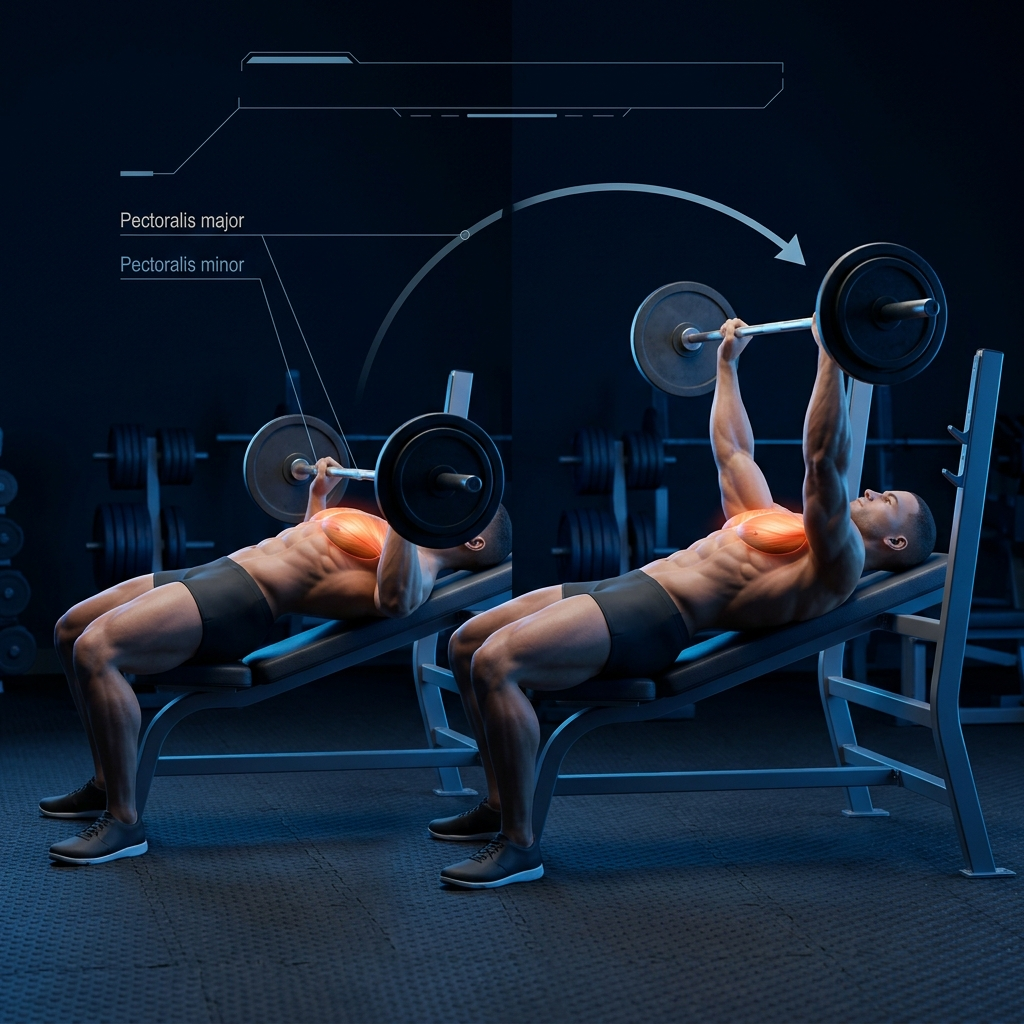
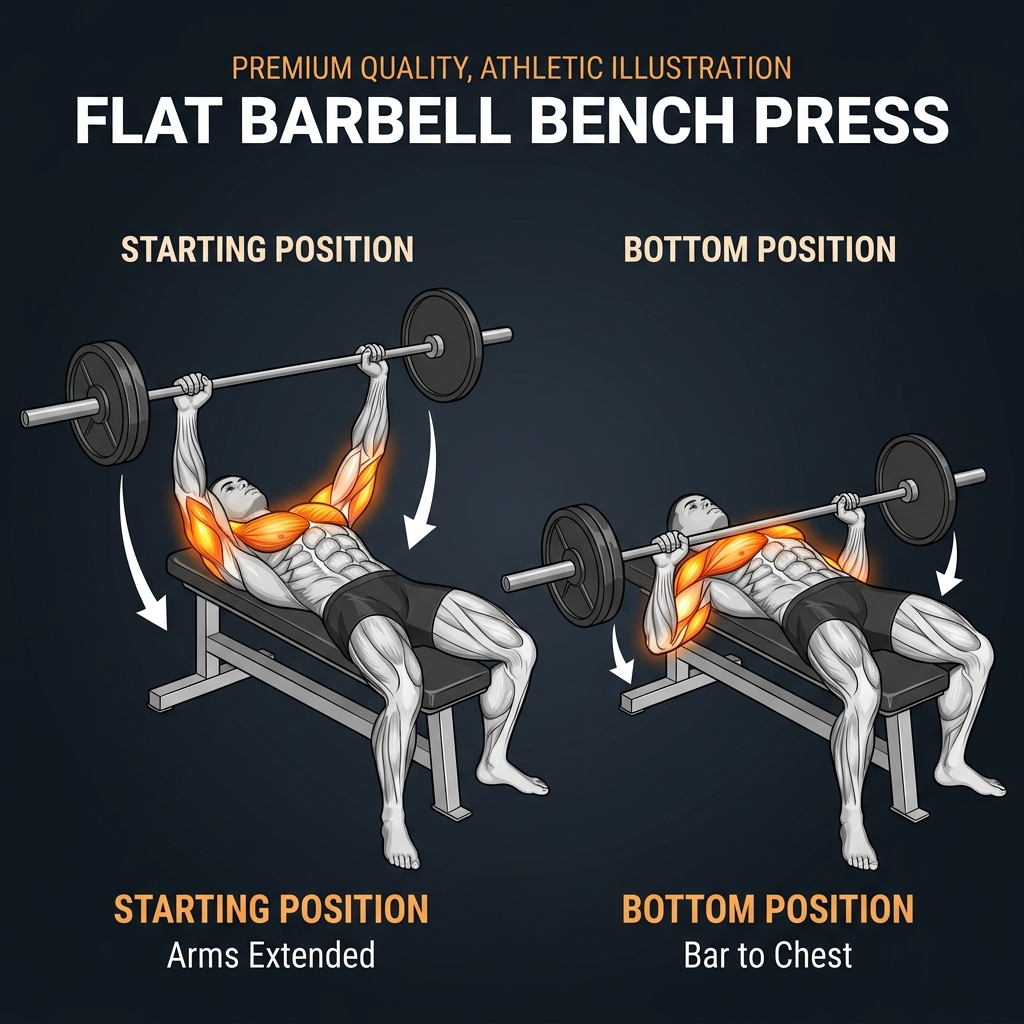
Add files via upload

diff --git a/index.html b/index.html
@@ -221,7 +221,7 @@
           <h3>Chest (Seena) — Pectoralis Major & Minor</h3>
           <div class="exercise-count">5 Exercises</div>
         </div>
-        <img src="images/chest_exercises.png" alt="Chest Exercises Guide" class="muscle-img-banner">
+        <img src="images/chest_exercises_guide.png" alt="Chest Exercises Guide" class="muscle-img-banner">
 
         <div class="exercises-grid">
           <!-- Chest Ex 1 -->
@@ -501,11 +501,10 @@
         <div class="exercises-grid">
           <!-- Bicep Ex 1 -->
           <div class="exercise-card animate-on-scroll">
-            <div class="exercise-card-visual">
-              <div class="visual-emoji">💪</div>
-              <div class="visual-info">
-                <div class="visual-type compound">🎯 Compound</div>
-                <div class="visual-muscles"><strong>Primary:</strong> Biceps (Both Heads)<br><strong>Secondary:</strong> Forearms, Brachialis</div>
+            <div class="exercise-card-image">
+              <img src="images/biceps_exercises.png" alt="Standing Barbell Curl Form Guide" loading="lazy">
+              <div class="exercise-card-image-overlay">
+                <span class="exercise-type-badge">📸 Form Guide</span>
               </div>
             </div>
             <div class="exercise-card-header">
@@ -731,7 +730,7 @@
           <h3>Back (Peeth) — Latissimus Dorsi, Rhomboids, Traps</h3>
           <div class="exercise-count">5 Exercises</div>
         </div>
-        <img src="images/back_exercises.png" alt="Back Exercises Guide" class="muscle-img-banner">
+        <img src="images/back_exercises_guide.png" alt="Back Exercises Guide" class="muscle-img-banner">
 
         <div class="exercises-grid">
           <div class="exercise-card animate-on-scroll">
@@ -819,11 +818,10 @@
           </div>
 
           <div class="exercise-card animate-on-scroll">
-            <div class="exercise-card-visual">
-              <div class="visual-emoji">🚣</div>
-              <div class="visual-info">
-                <div class="visual-type compound">🎯 Compound</div>
-                <div class="visual-muscles"><strong>Primary:</strong> Mid Back (Rhomboids)<br><strong>Secondary:</strong> Lats, Biceps</div>
+            <div class="exercise-card-image">
+              <img src="images/ex_cable_row.png" alt="Seated Cable Row (Close Grip) Form Guide" loading="lazy">
+              <div class="exercise-card-image-overlay">
+                <span class="exercise-type-badge">📸 Form Guide</span>
               </div>
             </div>
             <div class="exercise-card-header">
@@ -961,15 +959,14 @@
           <h3>Triceps (ट्राइसेप्स) — Triceps Brachii (3 Heads)</h3>
           <div class="exercise-count">4 Exercises</div>
         </div>
-        <img src="images/triceps_exercises.png" alt="Triceps Exercises Guide" class="muscle-img-banner">
+        <img src="images/triceps_exercises_guide.png" alt="Triceps Exercises Guide" class="muscle-img-banner">
 
         <div class="exercises-grid">
           <div class="exercise-card animate-on-scroll">
-            <div class="exercise-card-visual">
-              <div class="visual-emoji">⬇</div>
-              <div class="visual-info">
-                <div class="visual-type isolation">🔬 Isolation</div>
-                <div class="visual-muscles"><strong>Primary:</strong> Lateral Head<br><strong>Secondary:</strong> Medial Head</div>
+            <div class="exercise-card-image">
+              <img src="images/ex_rope_pushdown.png" alt="Cable Rope Pushdown Form Guide" loading="lazy">
+              <div class="exercise-card-image-overlay">
+                <span class="exercise-type-badge">📸 Form Guide</span>
               </div>
             </div>
             <div class="exercise-card-header">
@@ -1156,15 +1153,14 @@
           <h3>Shoulders (कंधे) — Deltoids (3 Heads) + Traps</h3>
           <div class="exercise-count">5 Exercises</div>
         </div>
-        <img src="images/shoulder_exercises.png" alt="Shoulder Exercises Guide" class="muscle-img-banner">
+        <img src="images/shoulders_exercises_guide.png" alt="Shoulder Exercises Guide" class="muscle-img-banner">
 
         <div class="exercises-grid">
           <div class="exercise-card animate-on-scroll">
-            <div class="exercise-card-visual">
-              <div class="visual-emoji">🌟</div>
-              <div class="visual-info">
-                <div class="visual-type compound">🎯 Compound</div>
-                <div class="visual-muscles"><strong>Primary:</strong> Front + Side Delts<br><strong>Secondary:</strong> Triceps, Upper Chest</div>
+            <div class="exercise-card-image">
+              <img src="images/ex_shoulder_press.png" alt="Seated Dumbbell Shoulder Press Form Guide" loading="lazy">
+              <div class="exercise-card-image-overlay">
+                <span class="exercise-type-badge">📸 Form Guide</span>
               </div>
             </div>
             <div class="exercise-card-header">
@@ -1204,11 +1200,10 @@
           </div>
 
           <div class="exercise-card animate-on-scroll">
-            <div class="exercise-card-visual">
-              <div class="visual-emoji">🦅</div>
-              <div class="visual-info">
-                <div class="visual-type isolation">🔬 Isolation</div>
-                <div class="visual-muscles"><strong>Primary:</strong> Side Delts (Width)<br><strong>Secondary:</strong> Front Delts</div>
+            <div class="exercise-card-image">
+              <img src="images/ex_lateral_raise.png" alt="Dumbbell Lateral Raises Form Guide" loading="lazy">
+              <div class="exercise-card-image-overlay">
+                <span class="exercise-type-badge">📸 Form Guide</span>
               </div>
             </div>
             <div class="exercise-card-header">
@@ -1387,15 +1382,14 @@
           <h3>Legs (टांगें) — Quads, Hamstrings, Glutes, Calves</h3>
           <div class="exercise-count">6 Exercises</div>
         </div>
-        <img src="images/legs_exercises.png" alt="Leg Exercises Guide" class="muscle-img-banner">
+        <img src="images/legs_exercises_guide.png" alt="Leg Exercises Guide" class="muscle-img-banner">
 
         <div class="exercises-grid">
           <div class="exercise-card animate-on-scroll">
-            <div class="exercise-card-visual">
-              <div class="visual-emoji">👑</div>
-              <div class="visual-info">
-                <div class="visual-type compound">🎯 King of All Exercises</div>
-                <div class="visual-muscles"><strong>Primary:</strong> Quads, Glutes<br><strong>Secondary:</strong> Hamstrings, Core, Lower Back</div>
+            <div class="exercise-card-image">
+              <img src="images/ex_squat.png" alt="Barbell Back Squat Form Guide" loading="lazy">
+              <div class="exercise-card-image-overlay">
+                <span class="exercise-type-badge">📸 Form Guide</span>
               </div>
             </div>
             <div class="exercise-card-header">
@@ -1435,11 +1429,10 @@
           </div>
 
           <div class="exercise-card animate-on-scroll">
-            <div class="exercise-card-visual">
-              <div class="visual-emoji">🦿</div>
-              <div class="visual-info">
-                <div class="visual-type compound">🎯 Compound</div>
-                <div class="visual-muscles"><strong>Primary:</strong> Quads (All 4 Heads)<br><strong>Secondary:</strong> Glutes, Hamstrings</div>
+            <div class="exercise-card-image">
+              <img src="images/ex_leg_press.png" alt="Leg Press Machine Form Guide" loading="lazy">
+              <div class="exercise-card-image-overlay">
+                <span class="exercise-type-badge">📸 Form Guide</span>
               </div>
             </div>
             <div class="exercise-card-header">
@@ -1567,11 +1560,10 @@
           </div>
 
           <div class="exercise-card animate-on-scroll">
-            <div class="exercise-card-visual">
-              <div class="visual-emoji">🏆</div>
-              <div class="visual-info">
-                <div class="visual-type compound">🎯 Compound</div>
-                <div class="visual-muscles"><strong>Primary:</strong> Hamstrings + Glutes<br><strong>Secondary:</strong> Lower Back, Adductors</div>
+            <div class="exercise-card-image">
+              <img src="images/ex_rdl.png" alt="Romanian Deadlift (RDL) Form Guide" loading="lazy">
+              <div class="exercise-card-image-overlay">
+                <span class="exercise-type-badge">📸 Form Guide</span>
               </div>
             </div>
             <div class="exercise-card-header">
@@ -1678,11 +1670,10 @@
 
         <div class="exercises-grid">
           <div class="exercise-card animate-on-scroll">
-            <div class="exercise-card-visual">
-              <div class="visual-emoji">🔩</div>
-              <div class="visual-info">
-                <div class="visual-type compound">🎯 Compound</div>
-                <div class="visual-muscles"><strong>Primary:</strong> Mid Chest (Each Side)<br><strong>Secondary:</strong> Front Delts, Triceps</div>
+            <div class="exercise-card-image">
+              <img src="images/ex_bench_press.png" alt="Dumbbell Bench Press (Flat) Form Guide" loading="lazy">
+              <div class="exercise-card-image-overlay">
+                <span class="exercise-type-badge">📸 Form Guide</span>
               </div>
             </div>
             <div class="exercise-card-header">
@@ -2012,11 +2003,10 @@
 
         <div class="exercises-grid">
           <div class="exercise-card animate-on-scroll">
-            <div class="exercise-card-visual">
-              <div class="visual-emoji">🔽</div>
-              <div class="visual-info">
-                <div class="visual-type compound">🎯 Compound</div>
-                <div class="visual-muscles"><strong>Primary:</strong> Lats (Lower Fibers)<br><strong>Secondary:</strong> Biceps, Teres Major</div>
+            <div class="exercise-card-image">
+              <img src="images/ex_lat_pulldown.png" alt="Close Grip Lat Pulldown Form Guide" loading="lazy">
+              <div class="exercise-card-image-overlay">
+                <span class="exercise-type-badge">📸 Form Guide</span>
               </div>
             </div>
             <div class="exercise-card-header">
@@ -2098,11 +2088,10 @@
           </div>
 
           <div class="exercise-card animate-on-scroll">
-            <div class="exercise-card-visual">
-              <div class="visual-emoji">🚣</div>
-              <div class="visual-info">
-                <div class="visual-type compound">🎯 Compound</div>
-                <div class="visual-muscles"><strong>Primary:</strong> Upper Back (Width)<br><strong>Secondary:</strong> Rear Delts, Biceps</div>
+            <div class="exercise-card-image">
+              <img src="images/ex_cable_row.png" alt="Wide Grip Seated Cable Row Form Guide" loading="lazy">
+              <div class="exercise-card-image-overlay">
+                <span class="exercise-type-badge">📸 Form Guide</span>
               </div>
             </div>
             <div class="exercise-card-header">
@@ -2195,11 +2184,10 @@
 
         <div class="exercises-grid">
           <div class="exercise-card animate-on-scroll">
-            <div class="exercise-card-visual">
-              <div class="visual-emoji">✊</div>
-              <div class="visual-info">
-                <div class="visual-type compound">🎯 Compound</div>
-                <div class="visual-muscles"><strong>Primary:</strong> Triceps (All 3 Heads)<br><strong>Secondary:</strong> Chest, Front Delts</div>
+            <div class="exercise-card-image">
+              <img src="images/ex_bench_press.png" alt="Close Grip Bench Press Form Guide" loading="lazy">
+              <div class="exercise-card-image-overlay">
+                <span class="exercise-type-badge">📸 Form Guide</span>
               </div>
             </div>
             <div class="exercise-card-header">
@@ -2347,11 +2335,10 @@
 
         <div class="exercises-grid">
           <div class="exercise-card animate-on-scroll">
-            <div class="exercise-card-visual">
-              <div class="visual-emoji">💪</div>
-              <div class="visual-info">
-                <div class="visual-type compound">🎯 Compound</div>
-                <div class="visual-muscles"><strong>Primary:</strong> All 3 Delt Heads<br><strong>Secondary:</strong> Triceps</div>
+            <div class="exercise-card-image">
+              <img src="images/ex_shoulder_press.png" alt="Arnold Press Form Guide" loading="lazy">
+              <div class="exercise-card-image-overlay">
+                <span class="exercise-type-badge">📸 Form Guide</span>
               </div>
             </div>
             <div class="exercise-card-header">
@@ -2389,11 +2376,10 @@
           </div>
 
           <div class="exercise-card animate-on-scroll">
-            <div class="exercise-card-visual">
-              <div class="visual-emoji">🔗</div>
-              <div class="visual-info">
-                <div class="visual-type isolation">🔬 Isolation</div>
-                <div class="visual-muscles"><strong>Primary:</strong> Side Delts (Constant Tension)<br><strong>Secondary:</strong> Front Delts</div>
+            <div class="exercise-card-image">
+              <img src="images/ex_lateral_raise.png" alt="Cable Lateral Raises Form Guide" loading="lazy">
+              <div class="exercise-card-image-overlay">
+                <span class="exercise-type-badge">📸 Form Guide</span>
               </div>
             </div>
             <div class="exercise-card-header">
@@ -2530,11 +2516,10 @@
 
         <div class="exercises-grid">
           <div class="exercise-card animate-on-scroll">
-            <div class="exercise-card-visual">
-              <div class="visual-emoji">🏗</div>
-              <div class="visual-info">
-                <div class="visual-type compound">🎯 Compound</div>
-                <div class="visual-muscles"><strong>Primary:</strong> Quads (Focus)<br><strong>Secondary:</strong> Glutes</div>
+            <div class="exercise-card-image">
+              <img src="images/ex_squat.png" alt="Hack Squat Machine Form Guide" loading="lazy">
+              <div class="exercise-card-image-overlay">
+                <span class="exercise-type-badge">📸 Form Guide</span>
               </div>
             </div>
             <div class="exercise-card-header">
@@ -2711,7 +2696,7 @@
           <h3>Abs (पेट) — Rectus Abdominis, Obliques, Transverse</h3>
           <div class="exercise-count">4 Exercises</div>
         </div>
-        <img src="images/abs_exercises.png" alt="Abs Exercises Guide" class="muscle-img-banner">
+        <img src="images/abs_exercises_guide.png" alt="Abs Exercises Guide" class="muscle-img-banner">
 
         <div class="info-card tip animate-on-scroll">
           <h4>💡 Six Pack Truth</h4>
@@ -3315,6 +3300,6 @@
 </footer>
 
 <script src="script.js"></script>
-<script src="exercise-animations.js"></script>
+
 </body>
 </html>

diff --git a/styles.css b/styles.css
@@ -204,13 +204,11 @@ p { color: var(--text-secondary); margin-bottom: 1rem; }
   overflow: hidden;
   transition: all 0.4s cubic-bezier(0.34, 1.56, 0.64, 1);
   position: relative;
-  transform-style: preserve-3d;
-  perspective: 1000px;
 }
 
 .exercise-card:hover {
   border-color: var(--border-strong);
-  transform: translateY(-6px) rotateX(2deg);
+  transform: translateY(-6px);
   box-shadow: 0 20px 40px rgba(0,0,0,0.4), 0 0 30px var(--primary-glow);
 }
 
@@ -254,6 +252,22 @@ p { color: var(--text-secondary); margin-bottom: 1rem; }
   font-size: 0.75rem;
   font-weight: 600;
   color: white;
+}
+
+.exercise-card-image-overlay {
+  position: absolute;
+  top: 10px;
+  right: 10px;
+}
+
+.exercise-card-image-overlay .exercise-type-badge {
+  padding: 4px 12px;
+  border-radius: 9999px;
+  background: rgba(0,0,0,0.65);
+  backdrop-filter: blur(10px);
+  font-size: 0.72rem;
+  font-weight: 600;
+  color: #ff6b35;
 }
 
 /* SVG Anatomy Diagram in card */
